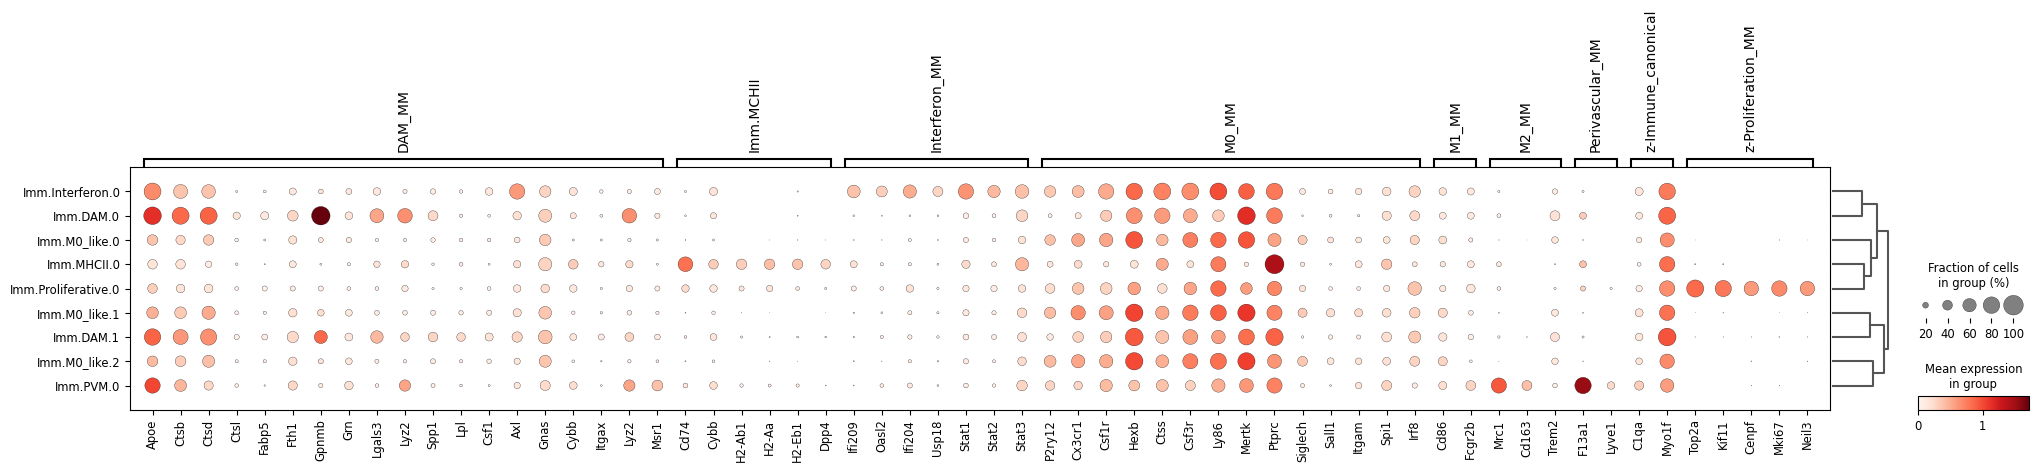
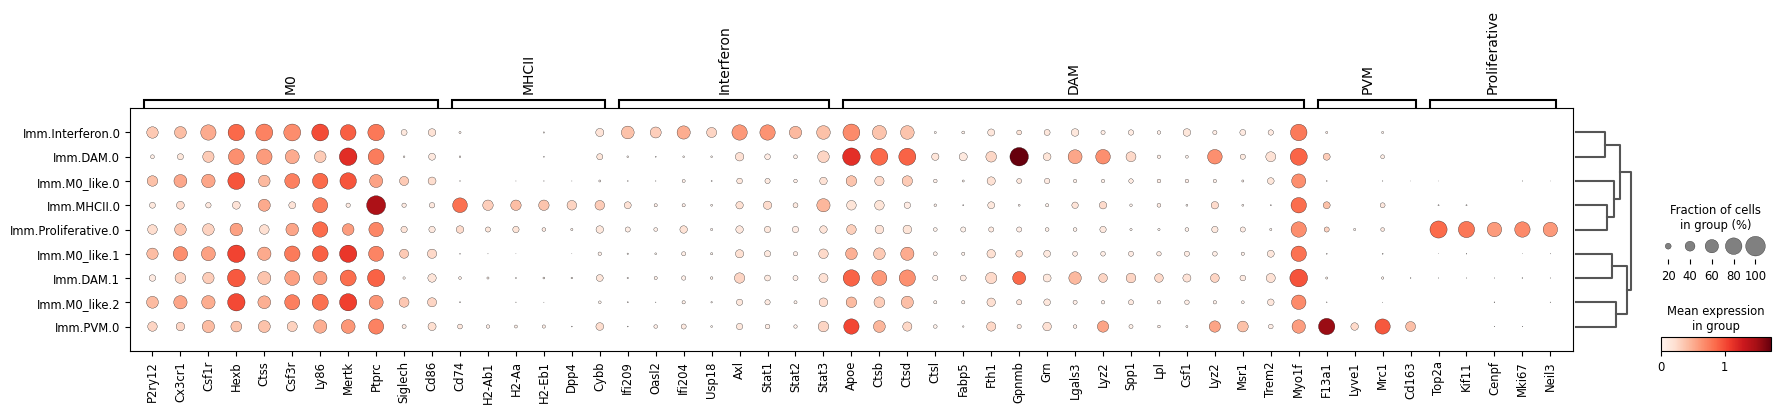
updates canonical

diff --git a/src/scripts/scripts_immune/immune_canonical.py b/src/scripts/scripts_immune/immune_canonical.py
@@ -76,7 +76,7 @@ def load_canonical_from_dir(directory):
     print(f"Loaded gene lists: {list(gene_dict.keys())}")
     return gene_dict
 
-def create_dotplots_with_thresholds(adata, genes, thresholds, output_dir="canonical/canonical_immune/updated_pts2"):
+def create_dotplots_with_thresholds(adata, genes, thresholds, cluster_order, output_dir="canonical/canonical_immune/updated_pts2"):
     """
     Create and save dotplots for different pts thresholds, with and without dendrograms.
 
@@ -91,6 +91,10 @@ def create_dotplots_with_thresholds(adata, genes, thresholds, output_dir="canoni
     """
     if not os.path.exists(output_dir):
         os.makedirs(output_dir)
+        
+    # Ensure leiden_fusion is categorical and reorder it
+    #adata.obs['leiden_fusion'] = adata.obs['leiden_fusion'].astype('category')
+    adata.obs['leiden_fusion'] = adata.obs['leiden_fusion'].cat.reorder_categories(cluster_order, ordered=True)
 
     for threshold in thresholds:
         print(f"\nProcessing pts threshold: {threshold}")
@@ -110,8 +114,11 @@ def create_dotplots_with_thresholds(adata, genes, thresholds, output_dir="canoni
         # Aggregate filtered genes by gene group
         top_genes_names = top_gene_names(filtered_genes, genes)
 
-        # Sort the gene groups alphabetically
-        top_genes_names = {key: top_genes_names[key] for key in sorted(top_genes_names.keys())}
+        # Example user-defined gene group order
+        user_gene_group_order = ["M0", "MHCII", "Interferon", "DAM", "PVM", "Proliferative"]
+
+        # Reorder the dictionary based on user order
+        top_genes_names = {key: top_genes_names[key] for key in user_gene_group_order}
 
         # Generate four different dotplots per threshold
         print(f"Generating dotplots for pts threshold: {threshold}")
@@ -322,7 +329,13 @@ if __name__ == "__main__":
     # Define thresholds
     pts_thresholds = [0.2, 0.3]
 
+    custom_cluster_order = [
+    "Imm.M0_like.0", "Imm.M0_like.1", 
+    "Imm.M0_like.2", "Imm.MHCII.0" ,
+    "Imm.Interferon.0", "Imm.DAM.0", 
+    "Imm.DAM.1", "Imm.PVM.0", "Imm.Proliferative.0"]
+
     # Generate dotplots for each threshold
-    create_dotplots_with_thresholds(filtered_adata, genes, pts_thresholds)
+    create_dotplots_with_thresholds(filtered_adata, genes, pts_thresholds, custom_cluster_order)
 
     

diff --git a/src/scripts/scripts_meningeal/meningeal_canonical.py b/src/scripts/scripts_meningeal/meningeal_canonical.py
@@ -77,7 +77,7 @@ def load_canonical_from_dir(directory):
     print(f"Loaded gene lists: {list(gene_dict.keys())}")
     return gene_dict
 
-def create_dotplots_with_thresholds(adata, genes, thresholds, output_dir="canonical/canonical_meningeal/updated_pts2"):
+def create_dotplots_with_thresholds(adata, genes, thresholds, cluster_order, output_dir="canonical/canonical_meningeal/updated_pts2"):
     """
     Create and save dotplots for different pts thresholds, with and without dendrograms.
 
@@ -92,6 +92,11 @@ def create_dotplots_with_thresholds(adata, genes, thresholds, output_dir="canoni
     """
     if not os.path.exists(output_dir):
         os.makedirs(output_dir)
+
+    # Ensure leiden_fusion is categorical and reorder it
+    adata.obs['leiden_fusion'] = adata.obs['leiden_fusion'].astype('category')
+    adata.obs['leiden_fusion'].cat.reorder_categories(cluster_order, ordered=True, inplace=True)
+
 
     for threshold in thresholds:
         print(f"\nProcessing pts threshold: {threshold}")
@@ -304,7 +309,10 @@ if __name__ == "__main__":
     # Define thresholds
     pts_thresholds = [0.2, 0.3]
 
+    custom_cluster_order = [
+    "Imm.M0_like.0", "Imm.M0_like.1", "Imm.M0_like.2", "Imm.MHCII.0" ,"Imm.Interferon.0", "Imm.DAM.0", "Imm.DAM.1", "Imm.Proliferative.0"]
+
     # Generate dotplots for each threshold
-    create_dotplots_with_thresholds(filtered_adata, genes, pts_thresholds)
+    create_dotplots_with_thresholds(filtered_adata, genes, pts_thresholds, custom_cluster_order)
 
     

diff --git a/src/scripts/general_mako/fractions_in_clusters.py b/src/scripts/general_mako/fractions_in_clusters.py
@@ -183,8 +183,8 @@ def start_analysis(input_file, output_dir):
 
         # Plot stacked barplots
         plot_data = table_frac.iloc[:-2, :-1].copy()
-        plot_data.loc['Expected', :] = expected_freq
-        alternate_names = list(table_frac.index[:-2]) + ['Expected']
+        plot_data.loc['Nonclustered_expected', :] = expected_freq
+        alternate_names = list(table_frac.index[:-2]) + ['Nonclustered_expected']
 
         plot_stacked_bar(plot_data, 
                          dataset_name=f'Meningeal_Vascular_final_{clusters_key}_{condition}', 
